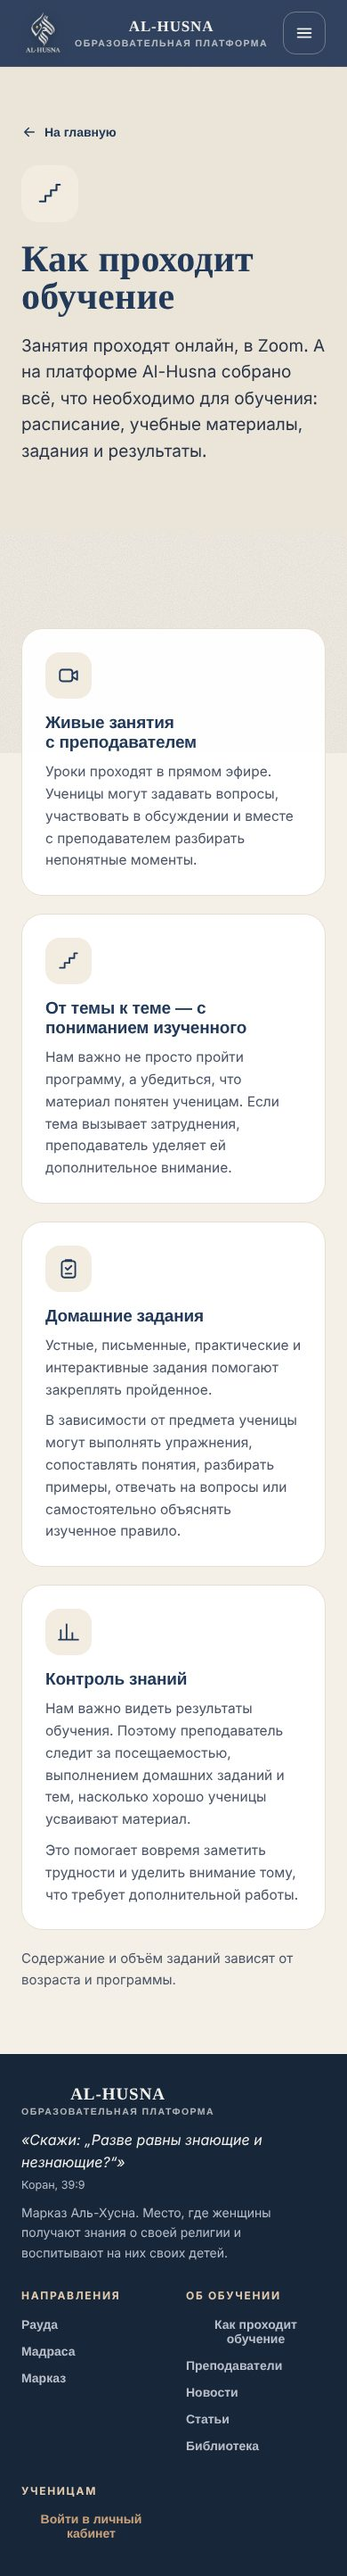
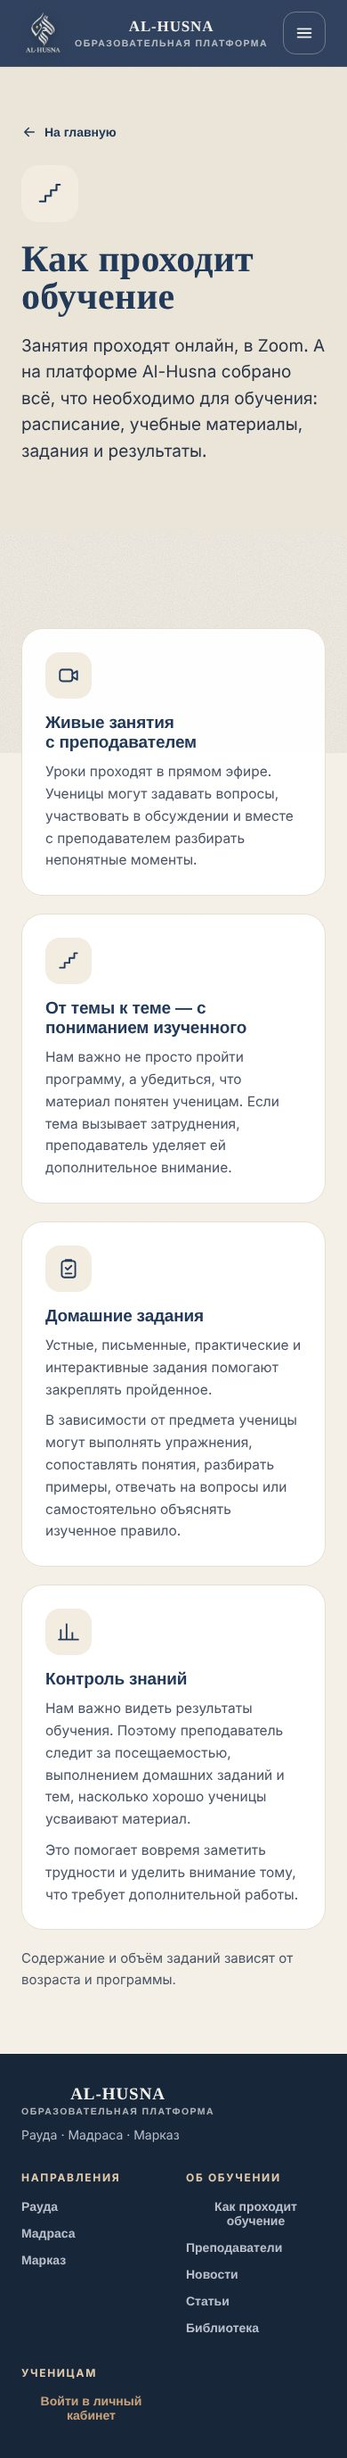
Главная: первый экран — аят 39:9 и «Марказ Аль-Хусна…»
Claude-Session: https://claude.ai/code/session_01EqvTPgoU1z5mZZkkz5oj4U

diff --git a/design/style-2026-11/karkas/glavnaya/README.md b/design/style-2026-11/karkas/glavnaya/README.md
@@ -5,14 +5,14 @@
 
 ## Порядок блоков
 1. Шапка: логотип «AL-HUSNA · Образовательная платформа», меню, кнопка «Личный кабинет».
-2. Первый экран: аят 47:19 (араб. + перевод), заголовок «У каждого возраста — свои вопросы. И свой способ учиться.», два абзаца, кнопки «Направления обучения» и «Как проходит обучение».
-3. Три направления: Рауда (4–7 лет), Мадраса (девочки от 8 лет + отдельные занятия для мальчиков), Марказ (женщины). В каждой карточке — хадис с источником, подзаголовок, текст, кнопка.
+2. Первый экран: аят «Скажи: „Разве равны знающие и незнающие?“» (Коран, 39:9), заголовок «Марказ Аль-Хусна. Место, где женщины получают знания о своей религии и воспитывают на них своих детей.», кнопки «Направления обучения» и «Как проходит обучение».
+3. Вступление к направлениям: аят 47:19 (араб. + перевод), «У каждого возраста — свои вопросы. И свой способ учиться.» и два абзаца. Ниже — три направления: Рауда (4–7 лет), Мадраса (девочки от 8 лет + отдельные занятия для мальчиков), Марказ (женщины). В каждой карточке — хадис с источником, подзаголовок, текст, кнопка.
 4. Две карточки рядом: «Планируете начать обучение?» (подбор программы) и «Уже учитесь в Al-Husna?» (вход в кабинет).
 5. «Как проходит обучение?»: 4 пункта (живые занятия, от темы к теме, домашние задания, контроль знаний) + кнопка «Подробнее об обучении».
 6. Преподаватели: слова Ибн Мас‘уда, текст, галерея карточек с раскрытием «Образование».
 7. Новости, Статьи, Библиотека: текст + кнопка + место под карточки.
 8. Финал «Пусть знания приносят пользу»: дуа (Ибн Маджа, 925) и аят 20:114.
-9. Подвал: аят 39:9 и фраза «Марказ Аль-Хусна. Место, где женщины получают знания о своей религии и воспитывают на них своих детей.»
+9. Подвал: логотип, ссылки на направления и разделы, вход в кабинет.
 
 ## Меню
 Направления: Рауда · Мадраса · Марказ.
